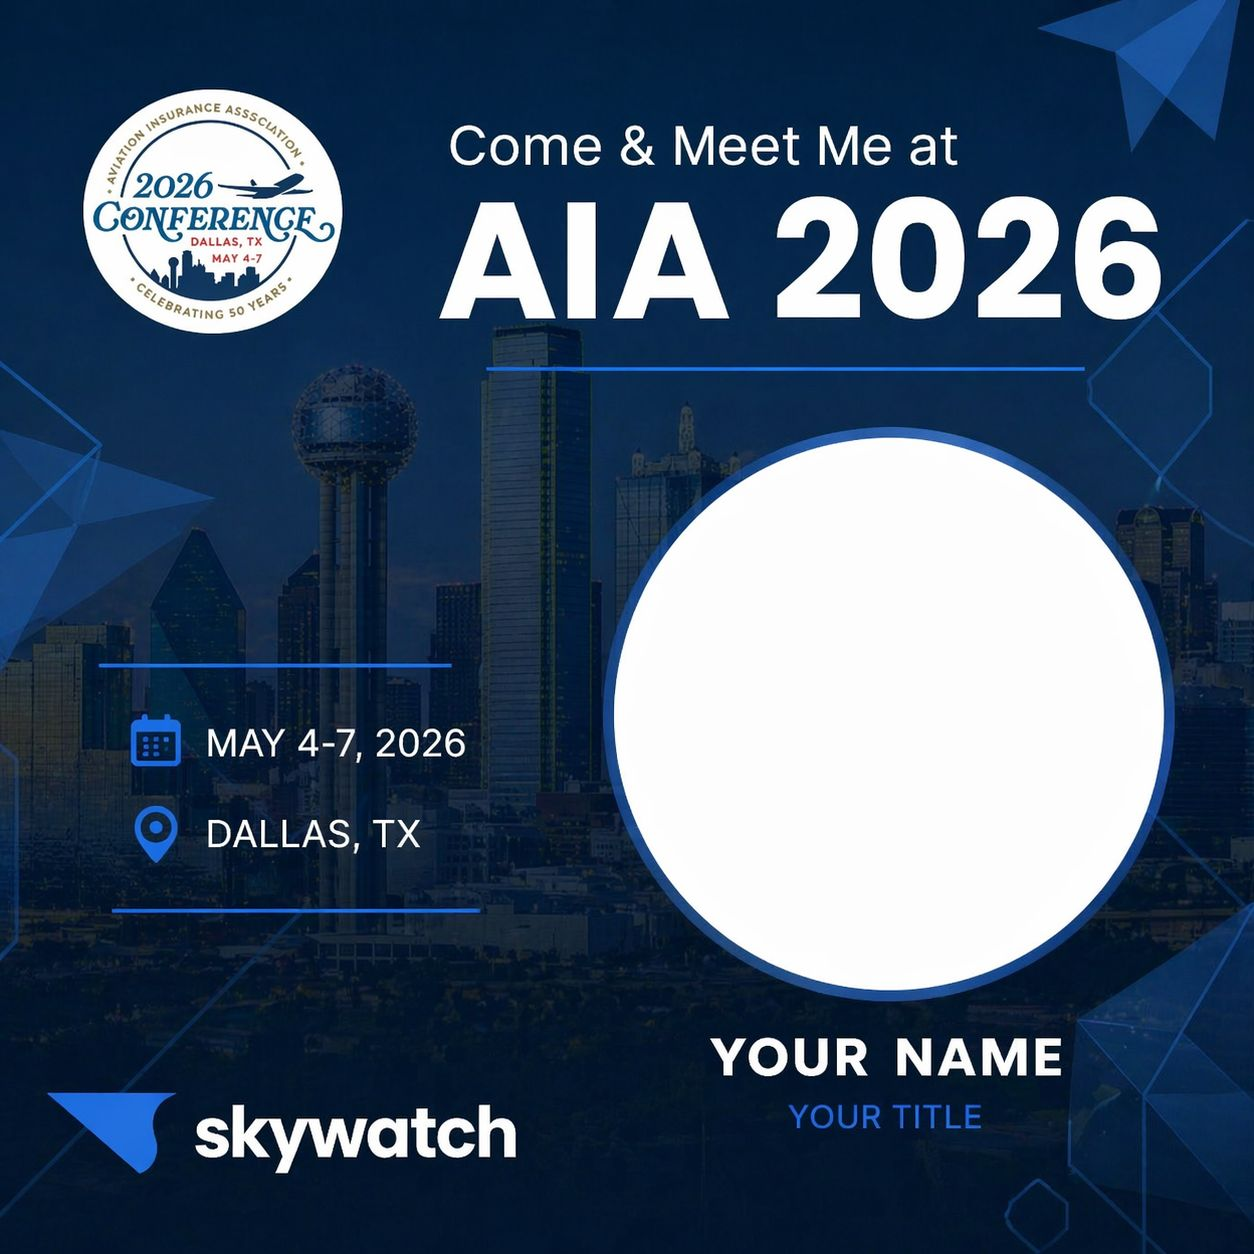
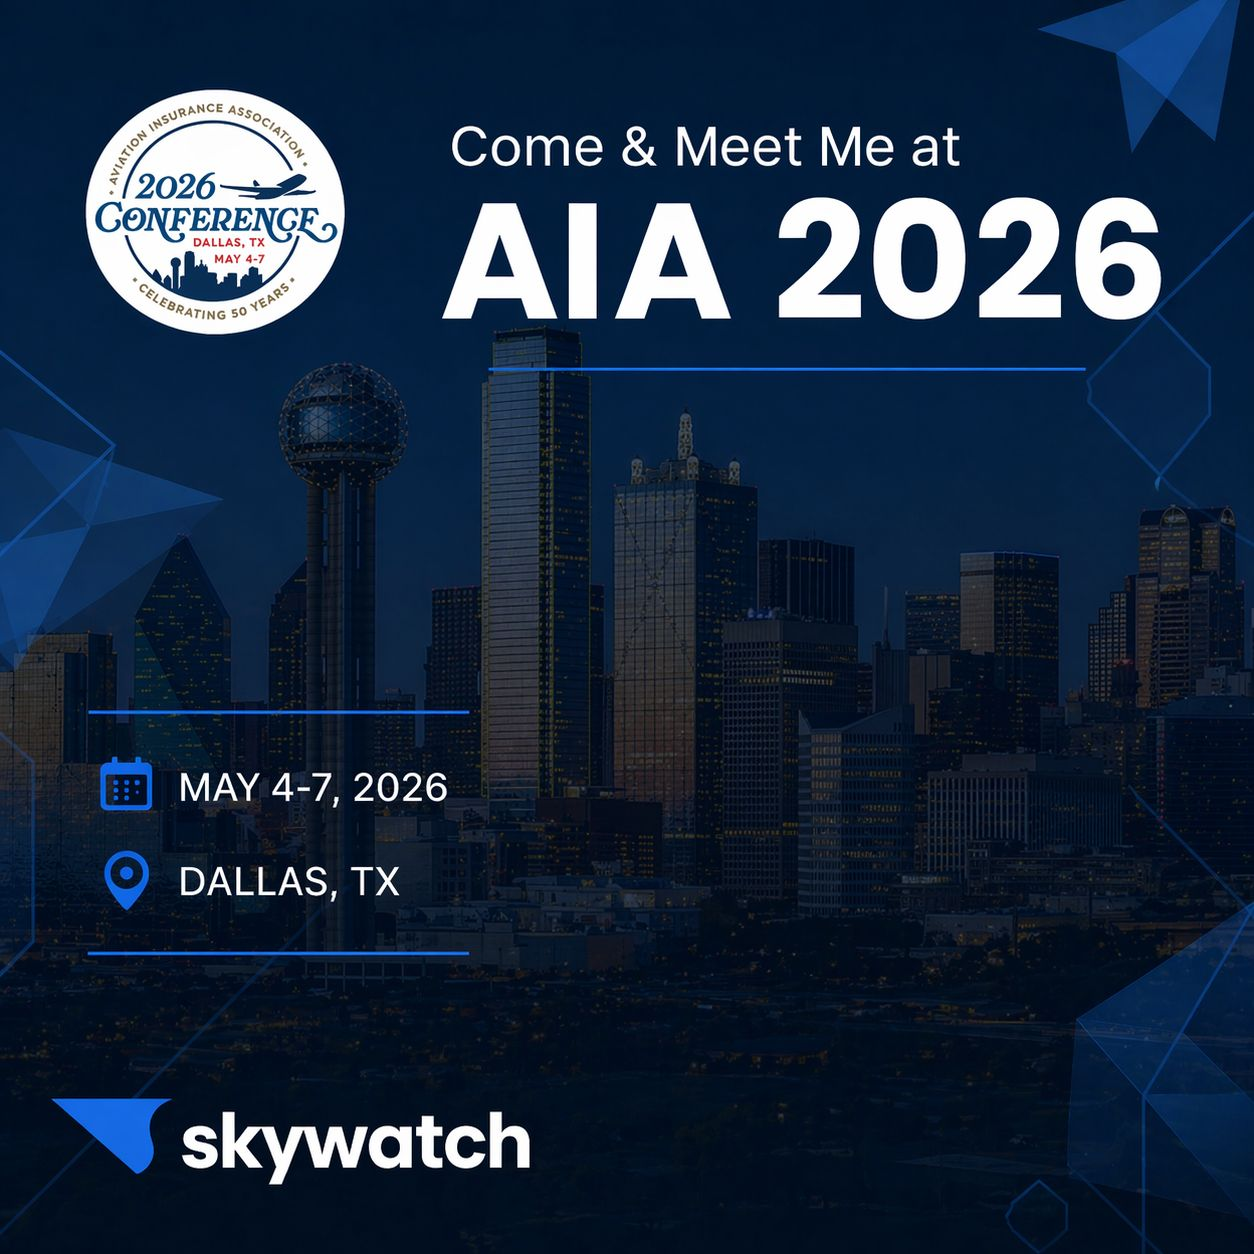
Update template to clean version without placeholders

diff --git a/index.html b/index.html
@@ -135,8 +135,7 @@
     const COORDS = {
         circle: { x: 706, y: 568, r: 224 },
         name: { x: 706, y: 840 },
-        title: { x: 706, y: 889 },
-        bgPatch: { x: 500, y: 800, w: 412, h: 120 } // Area to cover existing text
+        title: { x: 706, y: 889 }
     };
 
     generateBtn.addEventListener('click', () => {
@@ -160,12 +159,7 @@
         // 1. Draw Template
         ctx.drawImage(templateImg, 0, 0);
 
-        // 2. Patch existing text (cover "YOUR NAME" and "YOUR TITLE")
-        // We use a color sampled from the background (dark navy)
-        ctx.fillStyle = '#0a2240';
-        ctx.fillRect(COORDS.bgPatch.x, COORDS.bgPatch.y, COORDS.bgPatch.w, COORDS.bgPatch.h);
-
-        // 3. Draw User Photo (Clipped Circle)
+        // 2. Draw User Photo (Clipped Circle)
         ctx.save();
         ctx.beginPath();
         ctx.arc(COORDS.circle.x, COORDS.circle.y, COORDS.circle.r, 0, Math.PI * 2);
@@ -182,21 +176,21 @@
         ctx.drawImage(userImg, x, y, userImg.width * scale, userImg.height * scale);
         ctx.restore();
 
-        // 4. Draw White Border around Circle
+        // 3. Draw White Border around Circle
         ctx.strokeStyle = 'white';
         ctx.lineWidth = 12;
         ctx.beginPath();
         ctx.arc(COORDS.circle.x, COORDS.circle.y, COORDS.circle.r, 0, Math.PI * 2);
         ctx.stroke();
 
-        // 5. Draw Name
+        // 4. Draw Name
         ctx.fillStyle = 'white';
         ctx.font = 'bold 44px Montserrat, sans-serif';
         ctx.textAlign = 'center';
         ctx.textBaseline = 'middle';
         ctx.fillText(nameInput.value.toUpperCase() || 'YOUR NAME', COORDS.name.x, COORDS.name.y);
 
-        // 6. Draw Title
+        // 5. Draw Title
         ctx.fillStyle = '#6ca9d6'; // Light blue from analysis
         ctx.font = '28px Montserrat, sans-serif';
         ctx.fillText(titleInput.value.toUpperCase() || 'YOUR TITLE', COORDS.title.x, COORDS.title.y);
